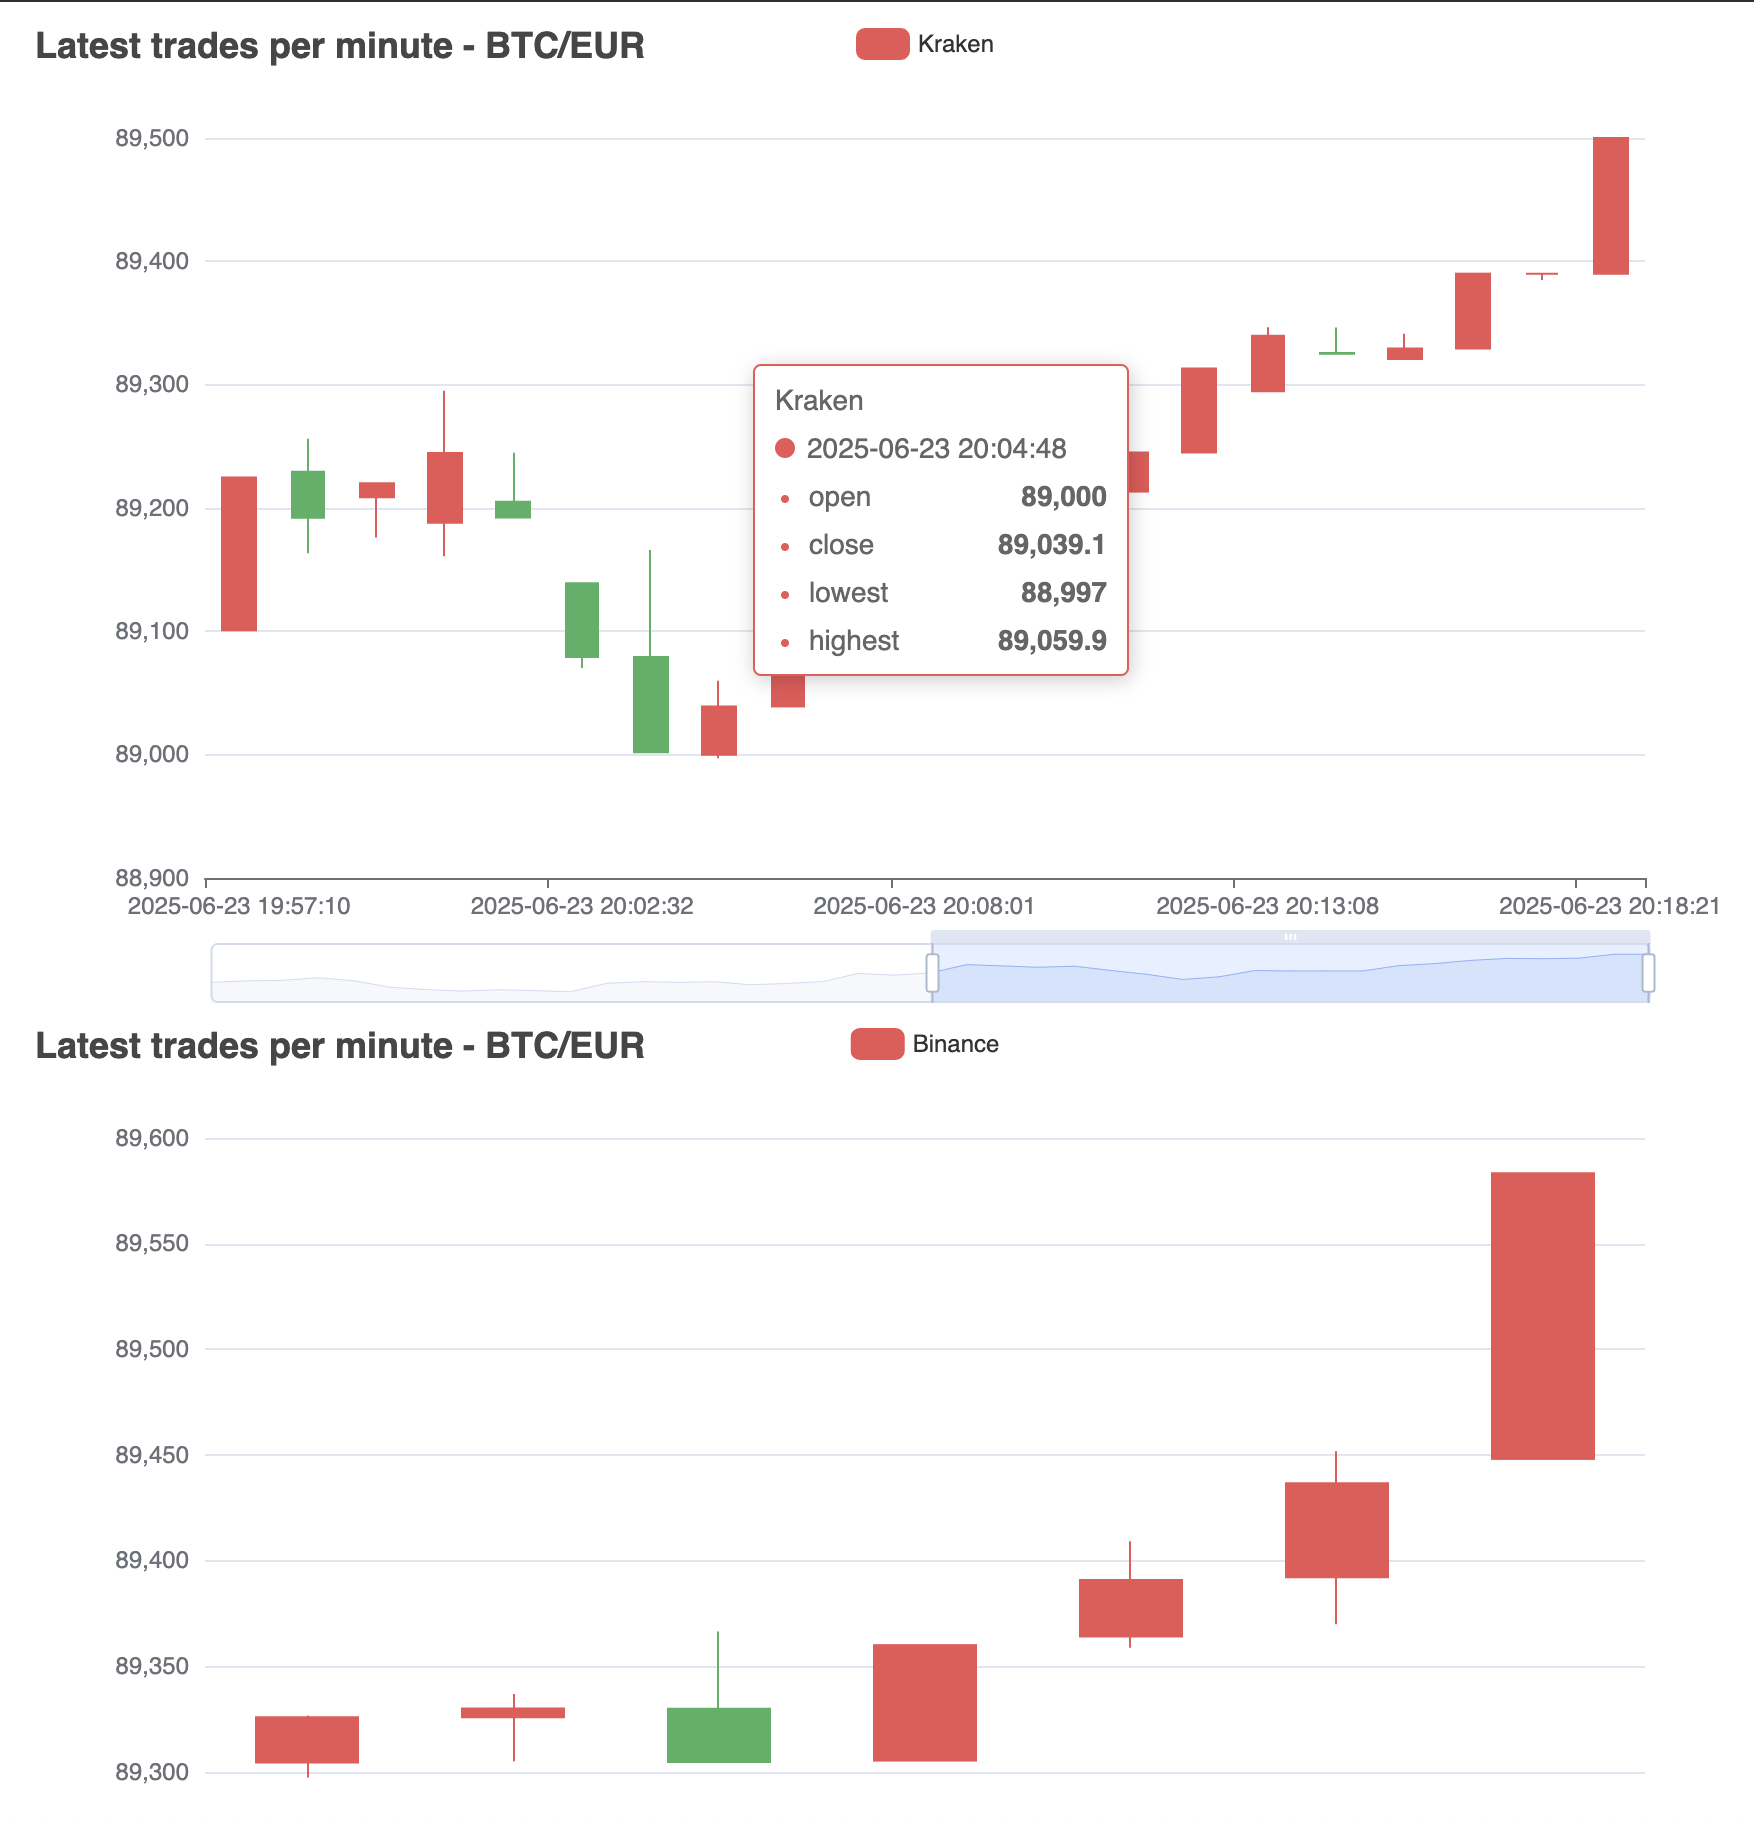
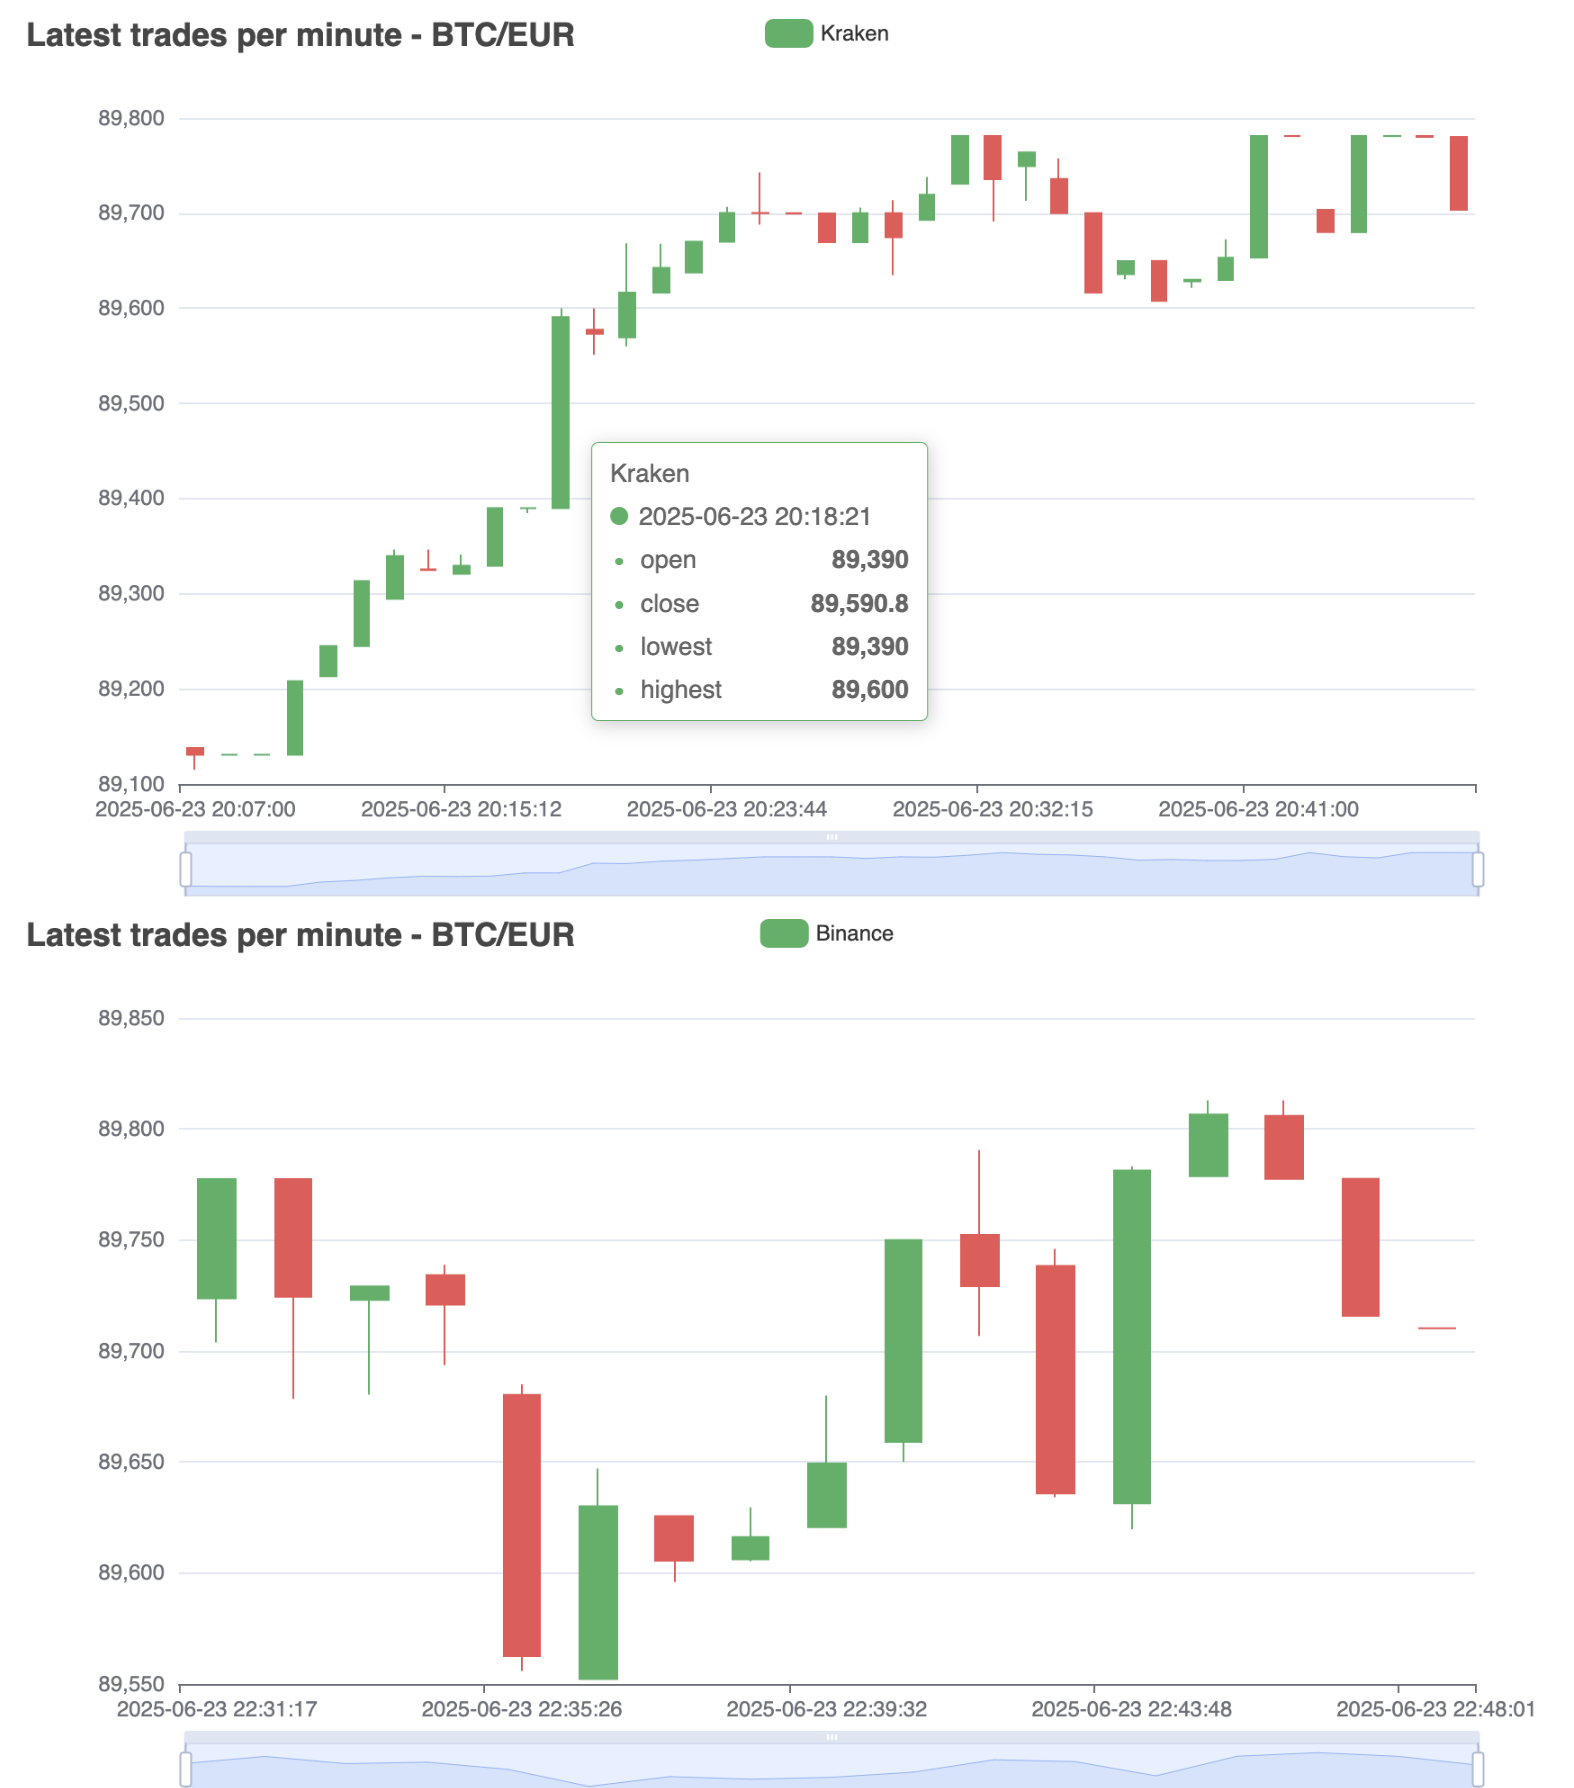
fix chart collors

diff --git a/chart.html b/chart.html
@@ -12,21 +12,21 @@
 
 
     <style> .container {display: flex;justify-content: center;align-items: center;} .item {margin: auto;} </style> <div class="container">
-    <div class="item" id="WuxPMVaWaqFD" style="width:900px;height:500px;"></div>
+    <div class="item" id="AJJmNMKkTaSg" style="width:900px;height:500px;"></div>
 </div><script type="text/javascript">
     "use strict";
-    let goecharts_WuxPMVaWaqFD = echarts.init(document.getElementById('WuxPMVaWaqFD'), "white", { renderer: "canvas" });
-    let option_WuxPMVaWaqFD = {"color":["#5470c6","#91cc75","#fac858","#ee6666","#73c0de","#3ba272","#fc8452","#9a60b4","#ea7ccc"],"dataZoom":[{"type":"","start":50,"end":100,"xAxisIndex":[0]}],"legend":{},"series":[{"name":"Kraken","type":"candlestick","data":[{"value":[88954.2,88977.5,88950.3,88977.6]},{"value":[88977.6,89025.2,88977.6,89100]},{"value":[88985.7,89035.5,88976.9,89044.5]},{"value":[89026.9,88977,88977,89026.9]},{"value":[88977,88918,88911.6,88977]},{"value":[88878.1,88842.7,88842.6,88878.1]},{"value":[88842.6,88819.1,88819,88842.6]},{"value":[88819,88840,88819,88840]},{"value":[88839.9,88827.1,88819.6,88840]},{"value":[88826.9,88808.9,88808.8,88827.1]},{"value":[88808.9,88889,88808.9,88889.1]},{"value":[88939.9,88965.9,88926.6,88966]},{"value":[88965.9,88954.8,88954.8,88965.9]},{"value":[88954.8,88964.3,88937.1,88964.3]},{"value":[88964.2,88911.5,88895.1,88966]},{"value":[88917.1,88937.3,88917.1,88937.3]},{"value":[88937.3,88945.9,88908.5,88949.9]},{"value":[88966,89094.8,88966,89140.7]},{"value":[89093.5,89059.1,89059.1,89100.7]},{"value":[89065.9,89100.8,89065.9,89100.8]},{"value":[89100.8,89224.8,89100.7,89224.8]},{"value":[89229.3,89192,89163.4,89256.1]},{"value":[89208.8,89220.1,89176,89220.1]},{"value":[89188,89244.6,89160.8,89295]},{"value":[89205,89192.3,89192.3,89244.7]},{"value":[89139,89079.1,89070.3,89139]},{"value":[89079.1,89001.9,89001.2,89166]},{"value":[89000,89039.1,88997,89059.9]},{"value":[89039.1,89083.6,89039.1,89083.6]},{"value":[89137.8,89130.7,89114.8,89137.8]},{"value":[89130.7,89130.7,89130.6,89130.7]},{"value":[89130.7,89130.7,89130.6,89130.7]},{"value":[89130.7,89208,89130.6,89208]},{"value":[89213.3,89245,89213.3,89245]},{"value":[89244.9,89313.2,89244.9,89313.4]},{"value":[89294.7,89339.6,89294.7,89346.5]},{"value":[89325.6,89325,89324.9,89346.4]},{"value":[89320.8,89329.4,89320.8,89341.2]},{"value":[89329.3,89390,89329.3,89390]},{"value":[89390,89390,89384.8,89390]},{"value":[89390,89499.9,89390,89500]}]}],"title":{"text":"Latest trades per minute - BTC/EUR"},"toolbox":{},"tooltip":{},"xAxis":[{"data":["2025-06-23 19:35:56","2025-06-23 19:36:58","2025-06-23 19:38:09","2025-06-23 19:39:09","2025-06-23 19:40:10","2025-06-23 19:41:17","2025-06-23 19:42:27","2025-06-23 19:43:28","2025-06-23 19:44:42","2025-06-23 19:45:45","2025-06-23 19:46:46","2025-06-23 19:47:48","2025-06-23 19:48:53","2025-06-23 19:49:54","2025-06-23 19:50:55","2025-06-23 19:52:01","2025-06-23 19:53:01","2025-06-23 19:54:04","2025-06-23 19:55:04","2025-06-23 19:56:05","2025-06-23 19:57:10","2025-06-23 19:58:15","2025-06-23 19:59:17","2025-06-23 20:00:29","2025-06-23 20:01:31","2025-06-23 20:02:32","2025-06-23 20:03:38","2025-06-23 20:04:48","2025-06-23 20:05:54","2025-06-23 20:07:00","2025-06-23 20:08:01","2025-06-23 20:09:02","2025-06-23 20:10:04","2025-06-23 20:11:04","2025-06-23 20:12:06","2025-06-23 20:13:08","2025-06-23 20:14:12","2025-06-23 20:15:12","2025-06-23 20:16:18","2025-06-23 20:17:21","2025-06-23 20:18:21"],"splitNumber":20}],"yAxis":[{"scale":true}]}
+    let goecharts_AJJmNMKkTaSg = echarts.init(document.getElementById('AJJmNMKkTaSg'), "white", { renderer: "canvas" });
+    let option_AJJmNMKkTaSg = {"color":["#5470c6","#91cc75","#fac858","#ee6666","#73c0de","#3ba272","#fc8452","#9a60b4","#ea7ccc"],"dataZoom":[{"type":"","start":50,"end":100,"xAxisIndex":[0]}],"legend":{},"series":[{"name":"Kraken","type":"candlestick","data":[{"value":[89137.8,89130.7,89114.8,89137.8]},{"value":[89130.7,89130.7,89130.6,89130.7]},{"value":[89130.7,89130.7,89130.6,89130.7]},{"value":[89130.7,89208,89130.6,89208]},{"value":[89213.3,89245,89213.3,89245]},{"value":[89244.9,89313.2,89244.9,89313.4]},{"value":[89294.7,89339.6,89294.7,89346.5]},{"value":[89325.6,89325,89324.9,89346.4]},{"value":[89320.8,89329.4,89320.8,89341.2]},{"value":[89329.3,89390,89329.3,89390]},{"value":[89390,89390,89384.8,89390]},{"value":[89390,89590.8,89390,89600]},{"value":[89577.4,89573.3,89551.1,89599.9]},{"value":[89569.5,89616.6,89560,89668.3]},{"value":[89616.6,89642.4,89616.6,89667.9]},{"value":[89637.6,89670,89637.6,89670]},{"value":[89670,89700.1,89669.9,89706.6]},{"value":[89700.1,89700,89688,89742.7]},{"value":[89699.9,89699.6,89699.6,89700]},{"value":[89699.7,89669.5,89669.5,89699.7]},{"value":[89669.5,89700,89669.5,89705.8]},{"value":[89700,89674.6,89635,89713.7]},{"value":[89692.9,89719.4,89692.8,89738.1]},{"value":[89731,89781,89730.9,89781.1]},{"value":[89781.1,89735.6,89691.2,89781.1]},{"value":[89749.3,89763.8,89712.9,89763.8]},{"value":[89735.8,89700,89700,89757.5]},{"value":[89700,89616.5,89616.5,89700]},{"value":[89635.9,89649.7,89630.4,89649.7]},{"value":[89649.7,89607.8,89607.8,89649.7]},{"value":[89628.3,89629.9,89621.5,89629.9]},{"value":[89629.8,89653.2,89629.8,89672.5]},{"value":[89653.3,89781.1,89653.3,89781.1]},{"value":[89781.1,89781,89781,89781.1]},{"value":[89703.5,89680.1,89680.1,89703.5]},{"value":[89680,89781.1,89680,89781.1]},{"value":[89781,89781.1,89781,89781.1]},{"value":[89781.1,89780.1,89780,89781.1]},{"value":[89780.1,89703.5,89703.5,89780.1]}],"itemStyle":{"color":"#47b262","color0":"#eb5454","borderColor":"#47b262","borderColor0":"#eb5454"}}],"title":{"text":"Latest trades per minute - BTC/EUR"},"toolbox":{},"tooltip":{},"xAxis":[{"data":["2025-06-23 20:07:00","2025-06-23 20:08:01","2025-06-23 20:09:02","2025-06-23 20:10:04","2025-06-23 20:11:04","2025-06-23 20:12:06","2025-06-23 20:13:08","2025-06-23 20:14:12","2025-06-23 20:15:12","2025-06-23 20:16:18","2025-06-23 20:17:21","2025-06-23 20:18:21","2025-06-23 20:19:27","2025-06-23 20:20:28","2025-06-23 20:21:34","2025-06-23 20:22:43","2025-06-23 20:23:44","2025-06-23 20:24:48","2025-06-23 20:25:48","2025-06-23 20:26:50","2025-06-23 20:27:53","2025-06-23 20:29:01","2025-06-23 20:30:04","2025-06-23 20:31:14","2025-06-23 20:32:15","2025-06-23 20:33:30","2025-06-23 20:34:34","2025-06-23 20:35:39","2025-06-23 20:36:46","2025-06-23 20:37:47","2025-06-23 20:38:59","2025-06-23 20:39:59","2025-06-23 20:41:00","2025-06-23 20:42:06","2025-06-23 20:43:14","2025-06-23 20:44:17","2025-06-23 20:45:24","2025-06-23 20:46:26","2025-06-23 20:47:35"],"splitNumber":20}],"yAxis":[{"scale":true}]}
 
-    goecharts_WuxPMVaWaqFD.setOption(option_WuxPMVaWaqFD);
+    goecharts_AJJmNMKkTaSg.setOption(option_AJJmNMKkTaSg);
 </script> <div class="container">
-    <div class="item" id="fbHWWAgvZIUX" style="width:900px;height:500px;"></div>
+    <div class="item" id="AkQcoZOYXesO" style="width:900px;height:500px;"></div>
 </div><script type="text/javascript">
     "use strict";
-    let goecharts_fbHWWAgvZIUX = echarts.init(document.getElementById('fbHWWAgvZIUX'), "white", { renderer: "canvas" });
-    let option_fbHWWAgvZIUX = {"color":["#5470c6","#91cc75","#fac858","#ee6666","#73c0de","#3ba272","#fc8452","#9a60b4","#ea7ccc"],"dataZoom":[{"type":"","start":50,"end":100,"xAxisIndex":[0]}],"legend":{},"series":[{"name":"Binance","type":"candlestick","data":[{"value":[89013.08,89045.2,89013.08,89045.79]},{"value":[89053.39,89111.79,89044.51,89129.62]},{"value":[89118.84,89169.79,89102.01,89177.85]},{"value":[89171.19,89160.05,89160.05,89175.04]},{"value":[89156.5,89176.66,89156.5,89189.61]},{"value":[89172.82,89235.68,89150.94,89235.68]},{"value":[89240,89286.95,89229.66,89319.69]},{"value":[89304.65,89326.08,89297.48,89326.89]},{"value":[89326.08,89330.15,89305.17,89336.97]},{"value":[89330,89304.88,89304.88,89366.58]},{"value":[89305.53,89360.14,89305.53,89360.14]},{"value":[89364.22,89391,89358.86,89409.26]},{"value":[89392.22,89436.74,89369.97,89451.79]},{"value":[89448.22,89583.33,89448.22,89583.33]}]}],"title":{"text":"Latest trades per minute - BTC/EUR"},"toolbox":{},"tooltip":{},"xAxis":[{"data":["2025-06-23 22:05:00","2025-06-23 22:06:02","2025-06-23 22:07:14","2025-06-23 22:08:14","2025-06-23 22:09:15","2025-06-23 22:10:21","2025-06-23 22:11:21","2025-06-23 22:12:25","2025-06-23 22:13:26","2025-06-23 22:14:26","2025-06-23 22:15:27","2025-06-23 22:16:28","2025-06-23 22:17:28","2025-06-23 22:18:28"],"splitNumber":20}],"yAxis":[{"scale":true}]}
+    let goecharts_AkQcoZOYXesO = echarts.init(document.getElementById('AkQcoZOYXesO'), "white", { renderer: "canvas" });
+    let option_AkQcoZOYXesO = {"color":["#5470c6","#91cc75","#fac858","#ee6666","#73c0de","#3ba272","#fc8452","#9a60b4","#ea7ccc"],"dataZoom":[{"type":"","start":50,"end":100,"xAxisIndex":[0]}],"legend":{},"series":[{"name":"Binance","type":"candlestick","data":[{"value":[89723.72,89777.4,89703.84,89777.5]},{"value":[89777.4,89724.38,89678.4,89777.4]},{"value":[89722.97,89729.08,89680.32,89729.08]},{"value":[89734.12,89720.85,89693.66,89738.77]},{"value":[89680.23,89562.59,89555.9,89685.02]},{"value":[89552.21,89630.07,89552.21,89647.08]},{"value":[89625.59,89605.56,89595.91,89625.59]},{"value":[89606.18,89616.18,89605.19,89629.6]},{"value":[89620.67,89649.28,89620.66,89679.95]},{"value":[89659.02,89750,89650.05,89750]},{"value":[89752.32,89729.18,89706.77,89790.46]},{"value":[89738.34,89635.85,89634.12,89745.98]},{"value":[89631.36,89781.25,89619.78,89783.19]},{"value":[89778.71,89806.54,89778.71,89812.92]},{"value":[89805.92,89777.56,89777.56,89812.92]},{"value":[89777.56,89715.84,89715.84,89777.56]},{"value":[89710.2,89710.2,89710.2,89710.2]}],"itemStyle":{"color":"#47b262","color0":"#eb5454","borderColor":"#47b262","borderColor0":"#eb5454"}}],"title":{"text":"Latest trades per minute - BTC/EUR"},"toolbox":{},"tooltip":{},"xAxis":[{"data":["2025-06-23 22:31:17","2025-06-23 22:32:18","2025-06-23 22:33:22","2025-06-23 22:34:25","2025-06-23 22:35:26","2025-06-23 22:36:26","2025-06-23 22:37:26","2025-06-23 22:38:30","2025-06-23 22:39:32","2025-06-23 22:40:41","2025-06-23 22:41:42","2025-06-23 22:42:45","2025-06-23 22:43:48","2025-06-23 22:44:48","2025-06-23 22:45:58","2025-06-23 22:46:58","2025-06-23 22:48:01"],"splitNumber":20}],"yAxis":[{"scale":true}]}
 
-    goecharts_fbHWWAgvZIUX.setOption(option_fbHWWAgvZIUX);
+    goecharts_AkQcoZOYXesO.setOption(option_AkQcoZOYXesO);
 </script>
 
 

diff --git a/cmd/console/main.go b/cmd/console/main.go
@@ -81,7 +81,14 @@ func buildChart(candlesticks []candlestick.Candlestick, chartOptions []charts.Gl
 	chart := charts.NewKLine()
 	chart.SetGlobalOptions(chartOptions...)
 	xAxisData, seriesData := mapCandlestickToChartData(candlesticks)
-	chart.SetXAxis(xAxisData).AddSeries(name, seriesData)
+	chart.SetXAxis(xAxisData).AddSeries(name, seriesData,
+		// fix candlestick colors
+		charts.WithItemStyleOpts(opts.ItemStyle{
+			Color:        "#47b262",
+			Color0:       "#eb5454",
+			BorderColor:  "#47b262",
+			BorderColor0: "#eb5454",
+		}))
 
 	return chart
 }
@@ -90,11 +97,11 @@ func mapCandlestickToChartData(candlesticks []candlestick.Candlestick) (xAxisDat
 	xAxisData := []string{}
 	seriesData := []opts.KlineData{}
 	for _, c := range candlesticks {
-		arr := [4]float64{}
-		arr[0] = c.Open.InexactFloat64()
-		arr[1] = c.Close.InexactFloat64()
-		arr[2] = c.Low.InexactFloat64()
-		arr[3] = c.High.InexactFloat64()
+		arr := [4]float32{}
+		arr[0] = float32(c.Open.InexactFloat64())
+		arr[1] = float32(c.Close.InexactFloat64())
+		arr[2] = float32(c.Low.InexactFloat64())
+		arr[3] = float32(c.High.InexactFloat64())
 
 		xAxisData = append(xAxisData, c.Date.Format("2006-01-02 15:04:05"))
 		seriesData = append(seriesData, opts.KlineData{Value: arr})
